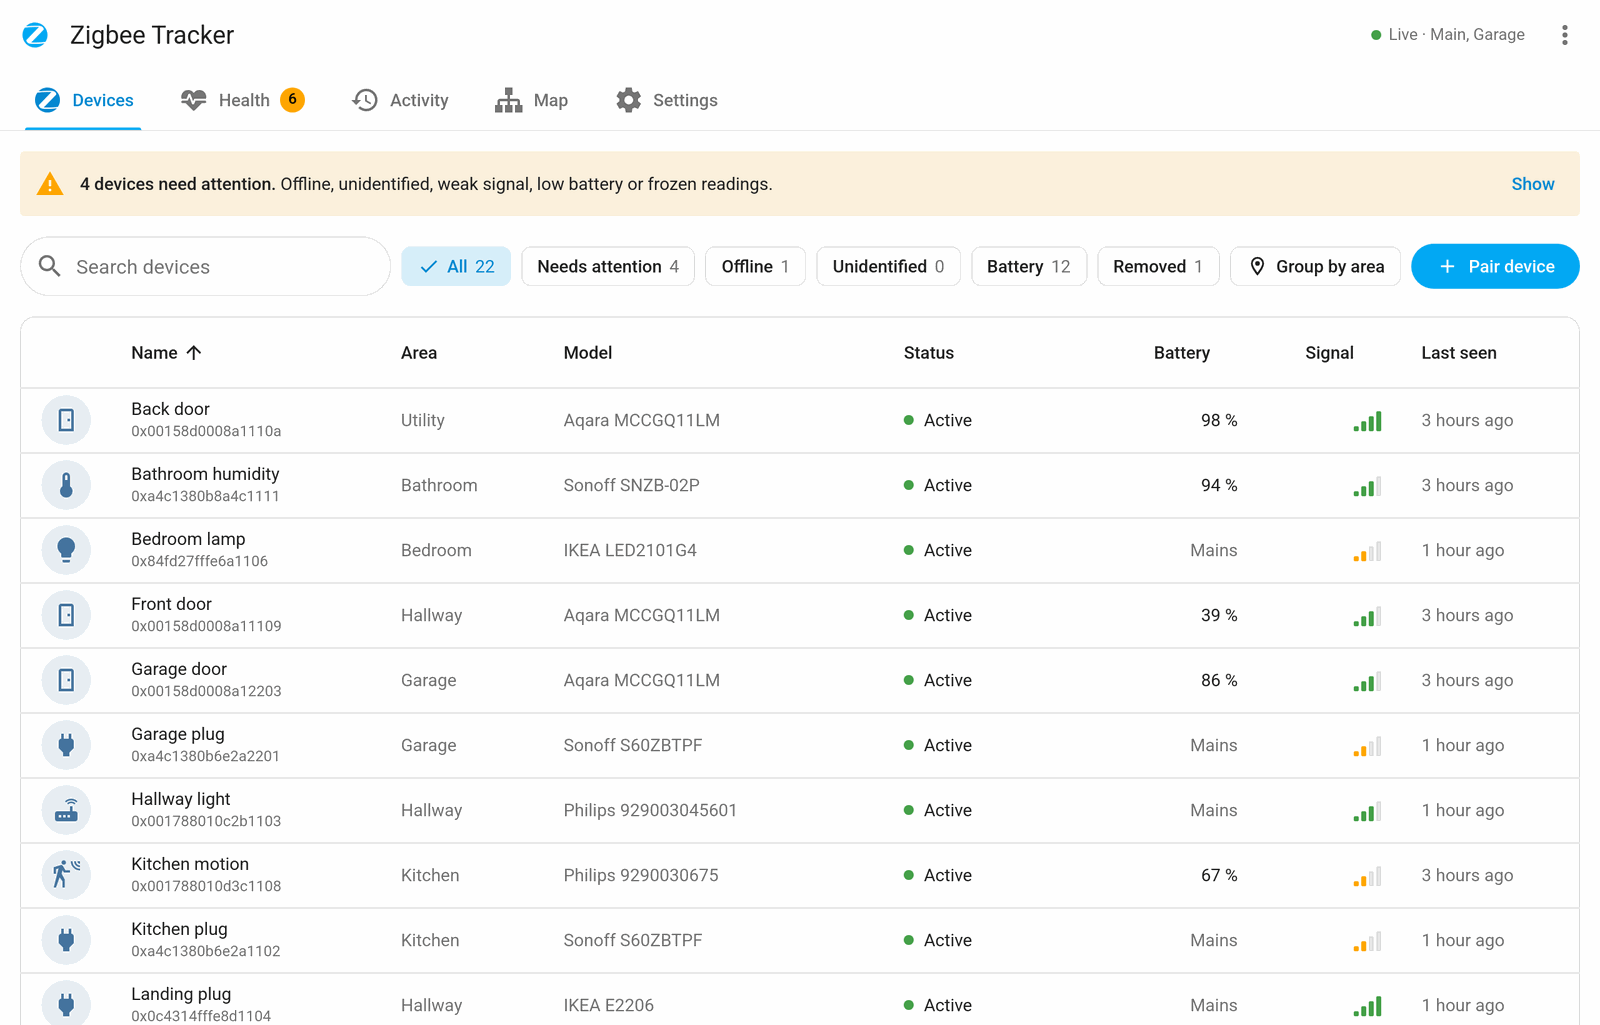
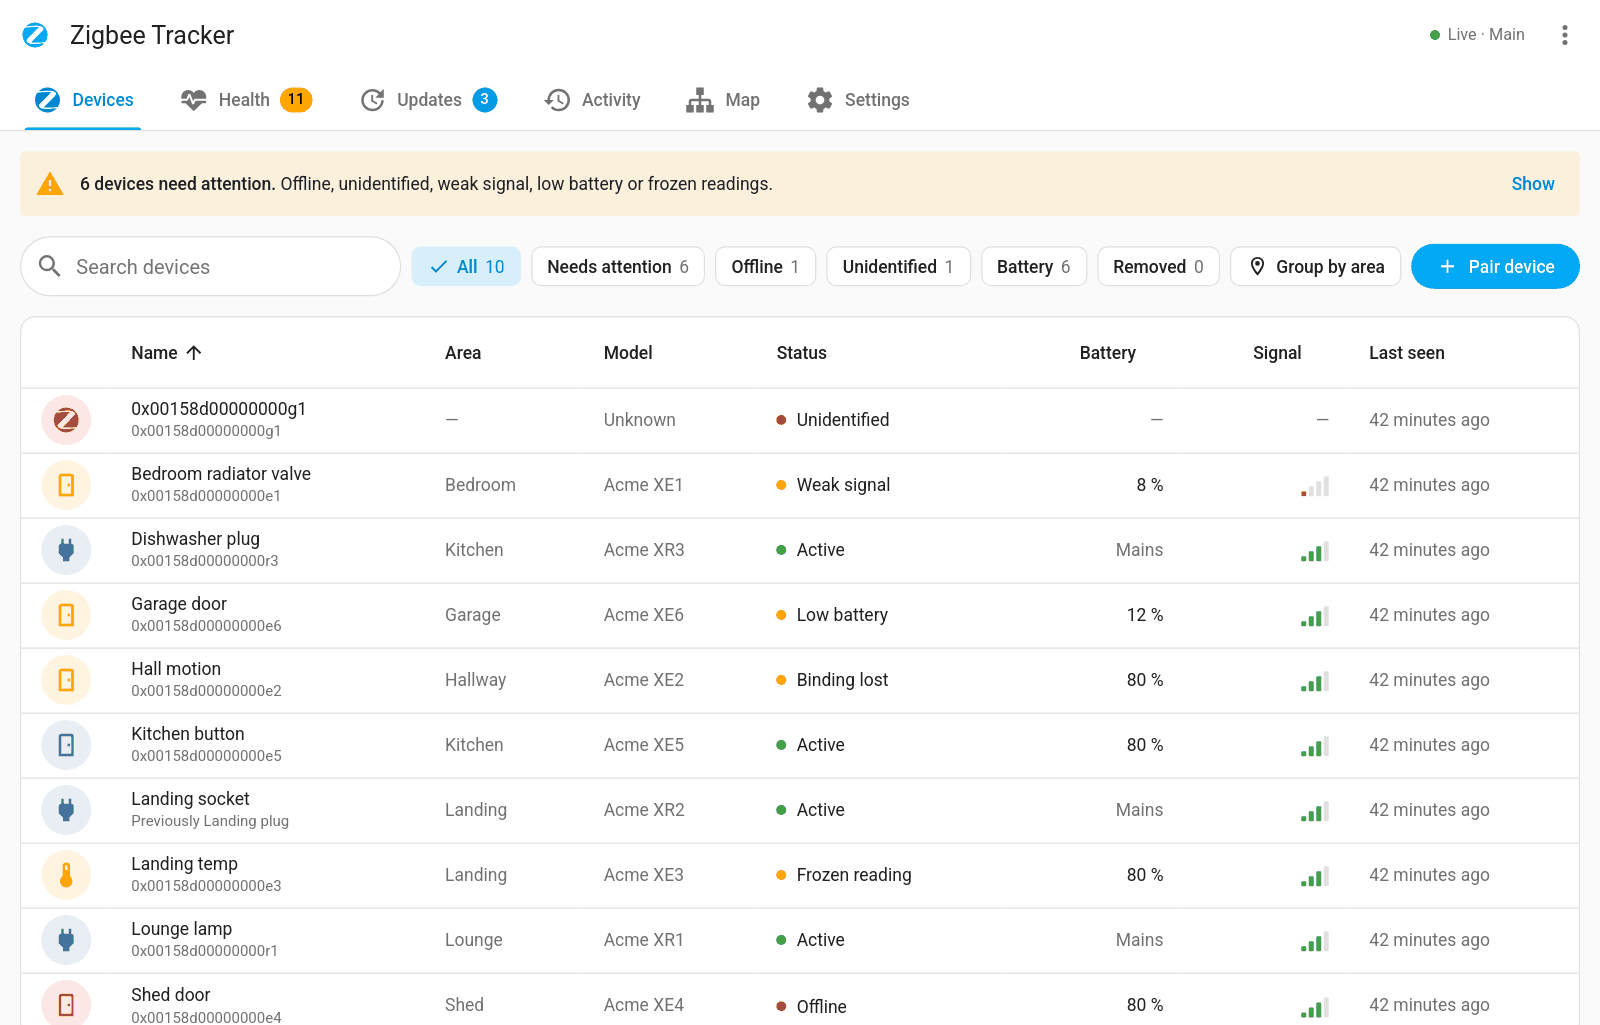
README: 1.1.0 features and screenshots

diff --git a/README.md b/README.md
@@ -39,17 +39,18 @@ It has two parts, both in this repository:
 - **Device history**: names, renames, model, firmware, area, joins, leaves and removals, with notes and asset details.
 - **Health checks and alerts**: offline, silent, frozen readings, weak or dropping signal, low battery, failed interviews, unidentified devices. Alerts go to HA notifications, events or a notify service.
 - **More checks**: flapping devices, chatty devices, fast battery drain, lost bindings, single points of failure (routers), and a missing, stale or mismatched coordinator backup. They show in Health and only notify once you turn them on.
-- **Bindings and traffic**: each device's current and lost bindings with a history of changes, its message rates, and Zigbee2MQTT's own message, leave and address-change counters.
+- **Bindings and traffic**: each device's current and lost bindings with a history of changes and a Restore button for each lost one, its message rates, and Zigbee2MQTT's own message, leave and address-change counters.
 - **Coordinator health**: Zigbee2MQTT version, coordinator firmware, uptime, restarts, outages and coordinator backup, and an alert when a network goes offline.
 - **Radio channels**: shows your Zigbee channels against your 2.4 GHz Wi-Fi channels and warns about overlap.
-- **Network map**: interactive map with advice on which router a device should use and which routers are a single point of failure, nightly routing scans, a before/after comparison between scans, and a floor-plan layout that groups devices by Home Assistant floor and area.
-- **Device actions**: pair through a chosen router, move a device to another router, reconfigure, rename, set area, OTA updates.
+- **Network map**: interactive map with advice on which router a device should use and which routers are a single point of failure, nightly routing scans, a before/after comparison between scans, and a floor-plan layout that groups devices by Home Assistant floor and area. Click a group in the legend (routers, battery devices, needs attention) to show only those devices.
+- **Device actions**: pair through a chosen router, move a device to another router, reconfigure, rename, set area, OTA updates. Names and areas stay in step with Home Assistant: a change made there shows in the app within seconds.
 - **Firmware updates**: one list of every device with an update, installed and available versions, update all one device at a time, an optional overnight window that skips low batteries, and a log of past updates.
 - **Replace a device**: swap a dead device for a new one in three steps. The new device takes over its name, area, bindings, notes and, if you want, battery record, the old one is removed from Zigbee2MQTT, and both histories are linked.
 - **Batteries**: battery type and count (built-in library from Battery Notes), replacement records, estimates and a shopping list. With the integration, the shopping list is a Home Assistant to-do list (tick an item to mark those batteries replaced) and a calendar shows each predicted replacement date.
 - **Long-range trends**: each device's link quality and battery over 24 hours, 7, 30 or 90 days, with a daily min–max band, battery changes and a projection to when the battery runs low.
 - **Home Assistant entities**: MQTT discovery sensors attached to each Zigbee2MQTT device for use in automations.
 - **Actions for automations** (integration): record a battery change, mute a device, run a network scan, reconfigure, start a firmware update, add to a device's note. Pick devices by name.
+- **Your language**: the sidebar follows the language in your Home Assistant profile, or one you pick in Settings. English ships today; [CONTRIBUTING.md](CONTRIBUTING.md) explains how to add a translation.
 - Weekly summary, temporary ignore, backup and restore, CSV export.
 
 ## Screenshots
@@ -62,6 +63,14 @@ It has two parts, both in this repository:
   <tr>
     <td width="50%" valign="top"><img src="https://raw.githubusercontent.com/tempus2016/z2m-device-tracker/main/docs/images/map.png" alt="Routing, link quality and advice on better routers"><br><b>Network map</b>: routing, link quality and advice on better routers</td>
     <td width="50%" valign="top"><img src="https://raw.githubusercontent.com/tempus2016/z2m-device-tracker/main/docs/images/radio.png" alt="Zigbee channels against your Wi-Fi channels"><br><b>Radio channels</b>: Zigbee channels against your Wi-Fi channels</td>
+  </tr>
+  <tr>
+    <td width="50%" valign="top"><img src="https://raw.githubusercontent.com/tempus2016/z2m-device-tracker/main/docs/images/floor-plan.png" alt="Devices grouped by floor and area, with weak areas flagged"><br><b>Floor plan</b>: devices by floor and area, with weak areas flagged</td>
+    <td width="50%" valign="top"><img src="https://raw.githubusercontent.com/tempus2016/z2m-device-tracker/main/docs/images/updates.png" alt="Firmware updates for every device, installed one at a time"><br><b>Firmware updates</b>: every update in one list, with an overnight window</td>
+  </tr>
+  <tr>
+    <td width="50%" valign="top"><img src="https://raw.githubusercontent.com/tempus2016/z2m-device-tracker/main/docs/images/trends.png" alt="A device's link quality and battery over 30 days"><br><b>Trends</b>: link quality and battery over up to 90 days</td>
+    <td width="50%" valign="top"><img src="https://raw.githubusercontent.com/tempus2016/z2m-device-tracker/main/docs/images/replace-wizard.png" alt="Choosing what a new device takes over from the one it replaces"><br><b>Replace a device</b>: the new one takes over name, area and setup</td>
   </tr>
 </table>
 
